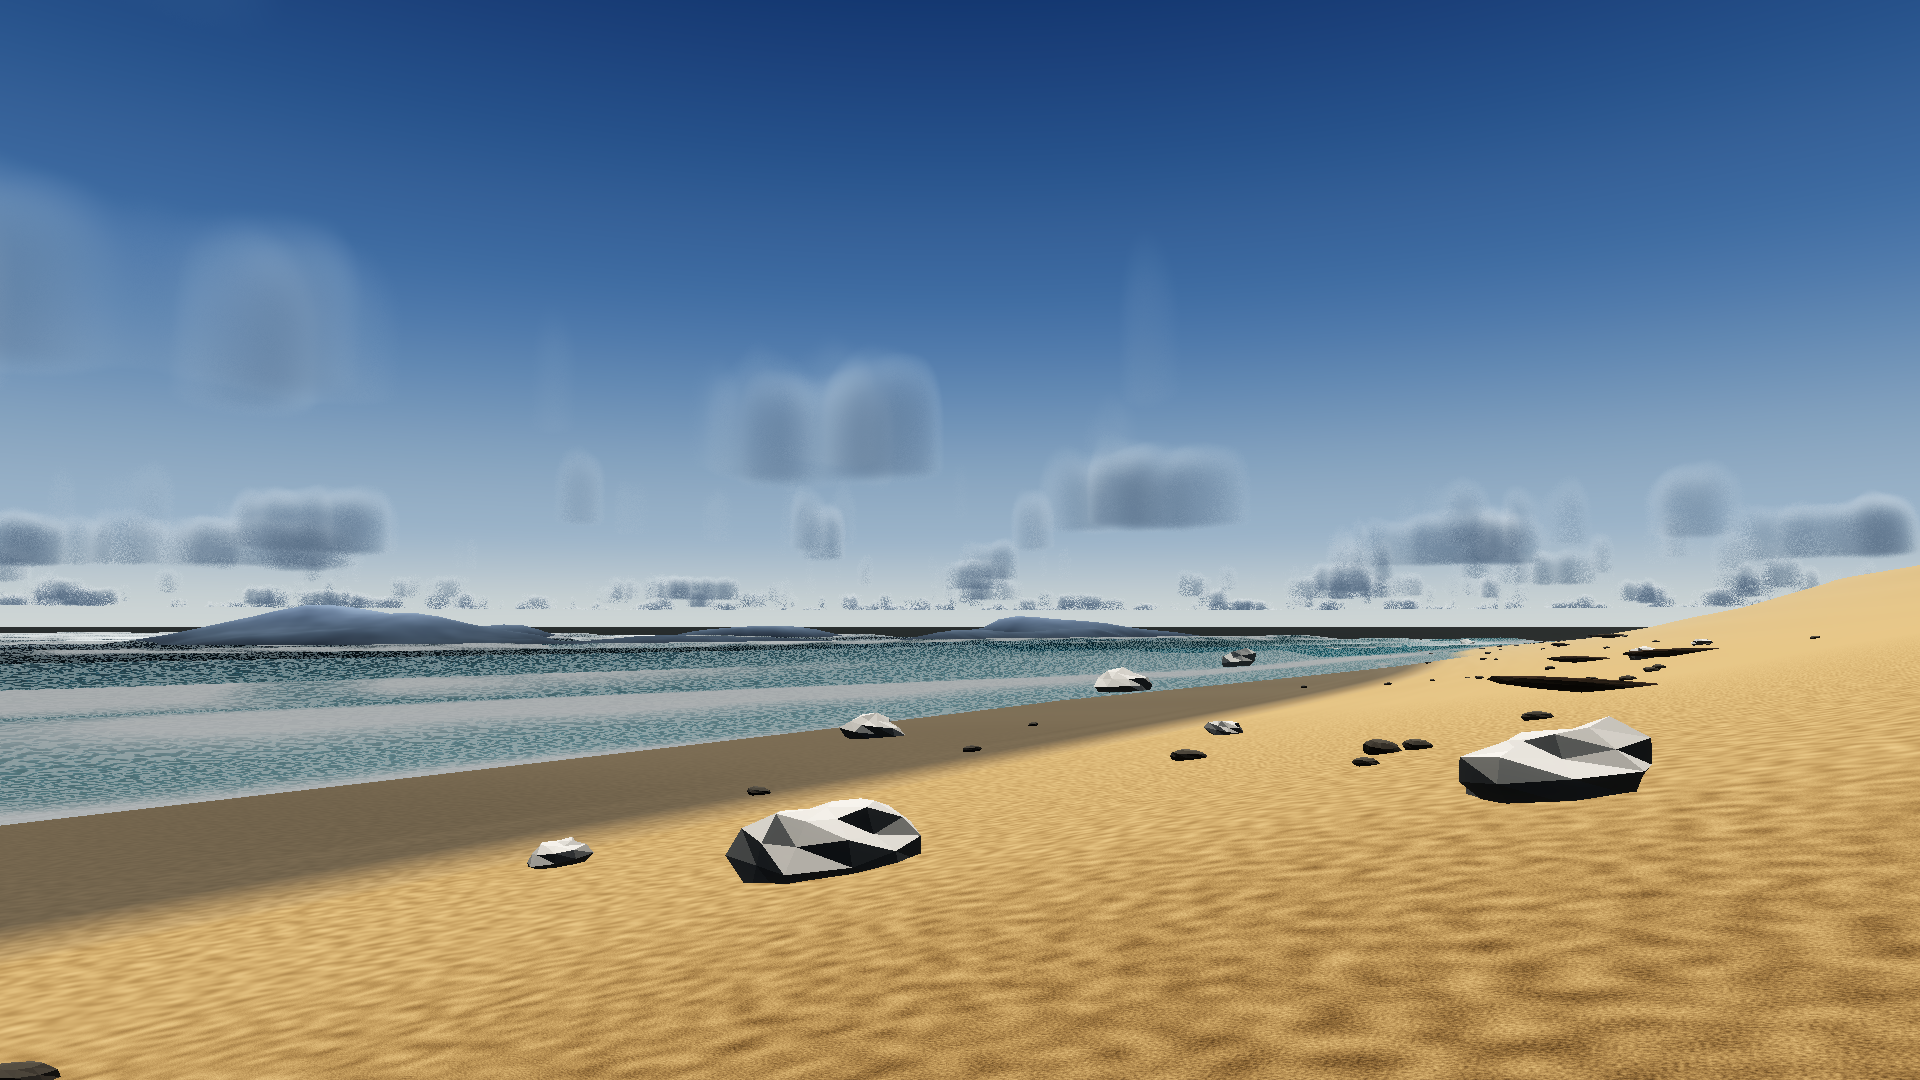
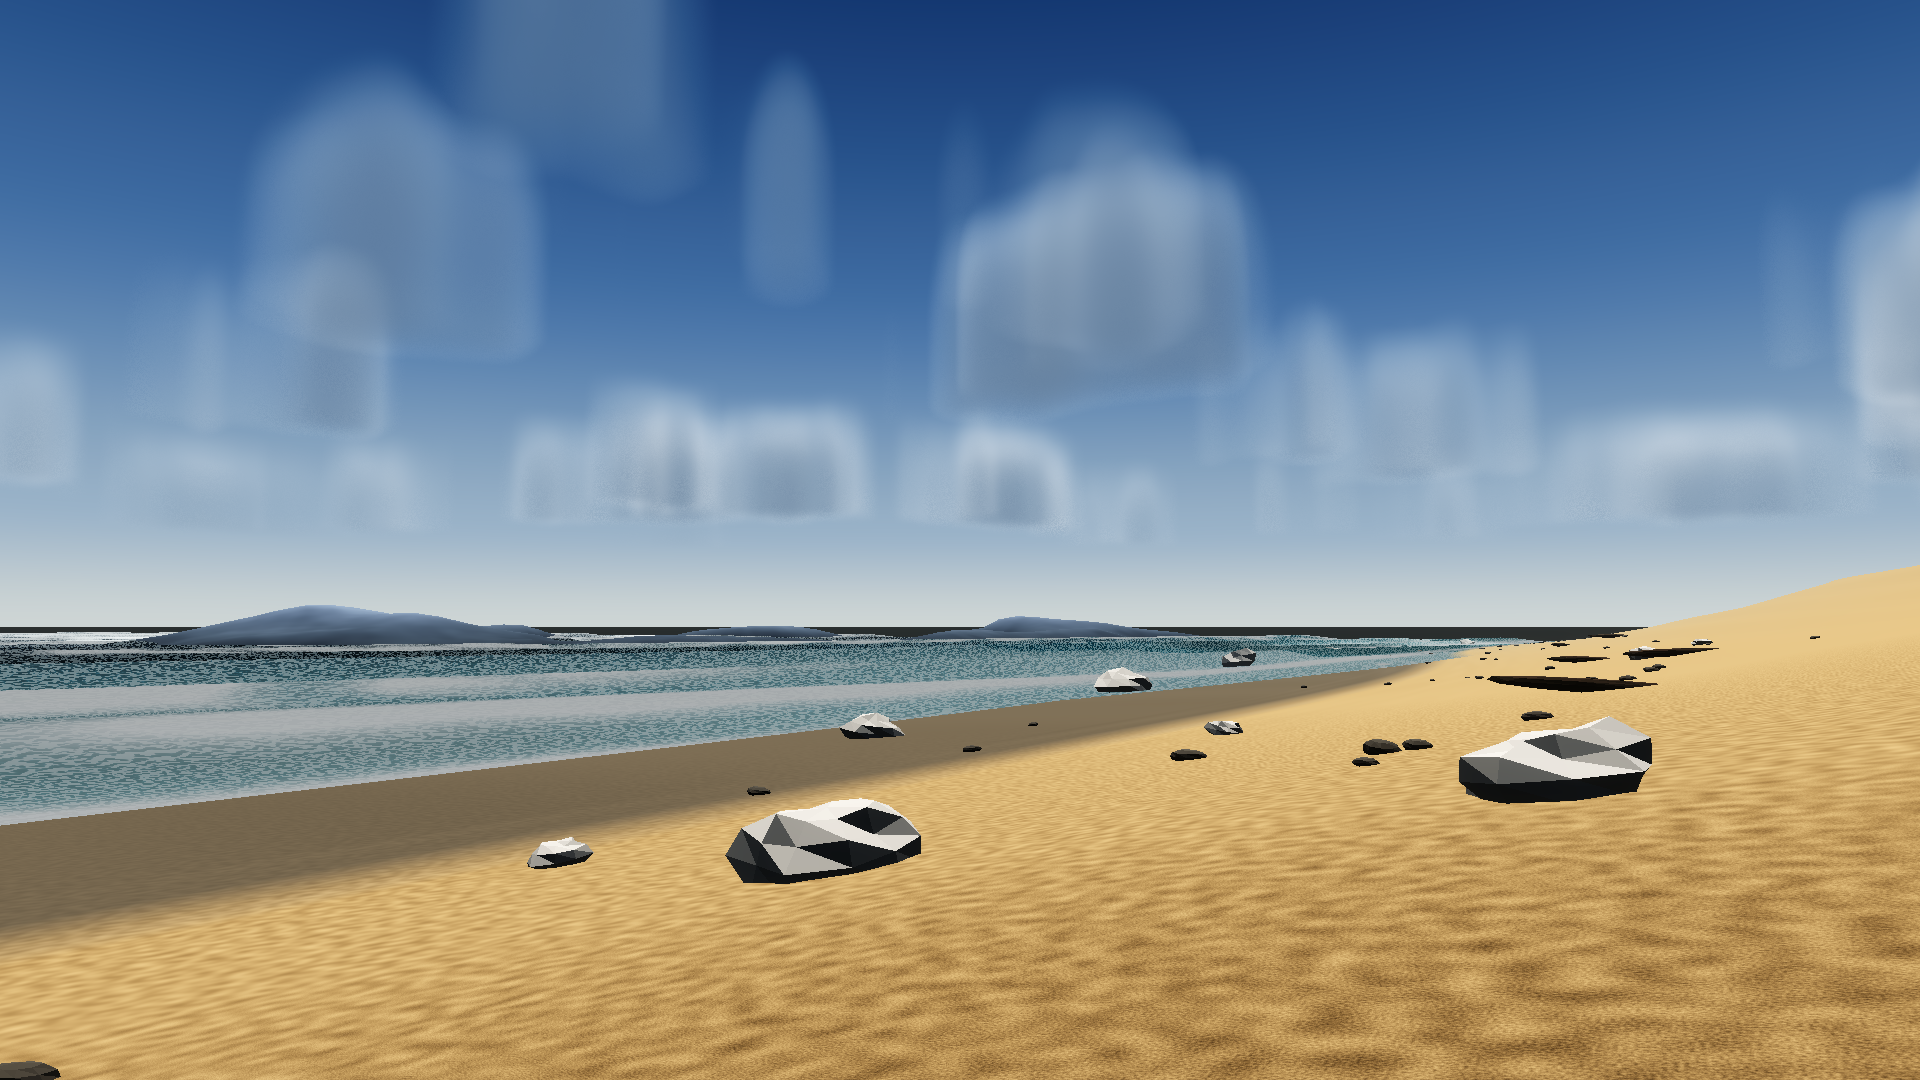
feat(R91-R94): 云从'纸板方块'改成真积云形态. ①诊断: 天空 shader 加真·云遮罩调试(_SkyDebug=4), 一眼看出云轮廓=噪声晶格 ②四步修: 倍频旋转36.87度(两处同步保云影同形) / 静态域扭曲0.38(与慢翻腾0.12分离, 避免R36b果冻) / _CloudScale 从 #define 改成材质参数(材质里旧值0.9一直没生效) / **value noise->Perlin**(决定性: 等值线从圆角方格变椭圆菱形) ③修地平线麻点带: 仰角淡出(0.015~0.085)+距离淡出(6km~14km) ④云边缘椒盐点: 步数32->40(-7

diff --git a/Assets/Editor/R93Setup.cs b/Assets/Editor/R93Setup.cs
@@ -1,0 +1,112 @@
+// R93Setup.cs — R93：云的"观感"三档（光学厚度 / 云底亮暗）
+//
+// 现象：Ocean 的云读成"灰色圆角方块"。形状问题要靠换噪声（工程量大），
+//   但**"太实、太暗"**是观感上更直接的一刀：真实积云是透光的白团，
+//   我们的云 40 步就吃到 78% 不透明度，看起来像纸板剪的。
+//
+// 可逆：90 回当前档，91/92 是两档"更薄更亮"。
+#if UNITY_EDITOR
+using System.IO;
+using UnityEditor;
+using UnityEngine;
+
+namespace WaterProject.EditorTools
+{
+    public static class R93Setup
+    {
+        static void P(string s)
+            => File.AppendAllText(Path.Combine(Application.dataPath, "../Logs/water_probe.txt"), s);
+
+        static void Set(string prop, float v, string tag)
+        {
+            var sky = RenderSettings.skybox;
+            if (sky == null || !sky.HasProperty(prop))
+            {
+                P($"R93/{tag} REFUSED: 没有 {prop}\n");
+                return;
+            }
+            float before = sky.GetFloat(prop);
+            sky.SetFloat(prop, v);
+            EditorUtility.SetDirty(sky);
+            if (Application.isPlaying) P($"R93/{tag} {prop} {before} -> {v}（运行时）\n");
+            else { AssetDatabase.SaveAssetIfDirty(sky); P($"R93/{tag} {prop} {before} -> {v}（已存）\n"); }
+        }
+
+        static void SetColor(string prop, Color c, string tag)
+        {
+            var sky = RenderSettings.skybox;
+            if (sky == null || !sky.HasProperty(prop)) { P($"R93/{tag} REFUSED: 没有 {prop}\n"); return; }
+            Color before = sky.GetColor(prop);
+            sky.SetColor(prop, c);
+            EditorUtility.SetDirty(sky);
+            if (Application.isPlaying) P($"R93/{tag} {prop} {before} -> {c}（运行时）\n");
+            else { AssetDatabase.SaveAssetIfDirty(sky); P($"R93/{tag} {prop} {before} -> {c}（已存）\n"); }
+        }
+
+        [MenuItem("Tools/R93/90 云=当前档(厚/暗)")]
+        public static void Cur()
+        {
+            Set("_CloudOptical", 1.0f, "90");
+            SetColor("_CloudShadow", new Color(0.52f, 0.57f, 0.65f, 1f), "90");
+            Set("_CloudBaseDark", 0.75f, "90");
+        }
+
+        [MenuItem("Tools/R93/91 云=薄一档(0.55)")]
+        public static void Thin()
+        {
+            Set("_CloudOptical", 0.55f, "91");
+            SetColor("_CloudShadow", new Color(0.66f, 0.70f, 0.76f, 1f), "91");
+            Set("_CloudBaseDark", 0.55f, "91");
+        }
+
+        [MenuItem("Tools/R93/92 云=很薄(0.30)")]
+        public static void Thinner()
+        {
+            Set("_CloudOptical", 0.30f, "92");
+            SetColor("_CloudShadow", new Color(0.78f, 0.81f, 0.85f, 1f), "92");
+            Set("_CloudBaseDark", 0.35f, "92");
+        }
+
+
+
+
+        [MenuItem("Tools/R94/96 云光学=0.80")]
+        public static void Opt80() => Set("_CloudOptical", 0.80f, "R94-96");
+
+        [MenuItem("Tools/R94/97 云光学=1.00")]
+        public static void Opt100() => Set("_CloudOptical", 1.00f, "R94-97");
+
+        [MenuItem("Tools/R94/98 云光学=1.40")]
+        public static void Opt140() => Set("_CloudOptical", 1.40f, "R94-98");
+
+        [MenuItem("Tools/R94/92 云量=0.30")]
+        public static void Cover30() => Set("_CloudCover", 0.30f, "R94-92");
+
+        [MenuItem("Tools/R94/93 云量=0.45")]
+        public static void Cover45() => Set("_CloudCover", 0.45f, "R94-93");
+
+        [MenuItem("Tools/R94/94 云量=0.60")]
+        public static void Cover60() => Set("_CloudCover", 0.60f, "R94-94");
+
+        [MenuItem("Tools/R94/95 云量=0.15(当前)")]
+        public static void Cover15() => Set("_CloudCover", 0.15f, "R94-95");
+
+        [MenuItem("Tools/R94/90 云噪声=value(旧)")]
+        public static void NoiseValue() => Set("_CloudNoiseMode", 0f, "R94-90");
+
+        [MenuItem("Tools/R94/91 云噪声=梯度Perlin")]
+        public static void NoisePerlin() => Set("_CloudNoiseMode", 1f, "R94-91");
+
+        [MenuItem("Tools/R93/93 探针(云光学/阴影色/底暗)")]
+        public static void Probe()
+        {
+            var sky = RenderSettings.skybox;
+            if (sky == null) { P("R93 PROBE sky=null\n"); return; }
+            float F(string p) => sky.HasProperty(p) ? sky.GetFloat(p) : -999f;
+            Color C(string p) => sky.HasProperty(p) ? sky.GetColor(p) : Color.magenta;
+            P($"R93 PROBE optical={F("_CloudOptical"):F2} shadow={C("_CloudShadow")} baseDark={F("_CloudBaseDark"):F2} " +
+              $"scale={F("_CloudScale"):F5} steps={F("_CloudSteps"):F0}\n");
+        }
+    }
+}
+#endif

diff --git a/Assets/Editor/R90Setup.cs b/Assets/Editor/R90Setup.cs
@@ -44,6 +44,33 @@ namespace WaterProject.EditorTools
         [MenuItem("Tools/R90/90b 云抖动=白噪(旧)")]
         public static void JitterHash() => SetSky("_CloudJitterIGN", 0f, "90b");
 
+        [MenuItem("Tools/R92/90 云尺度=0.00042(当前)")]
+        public static void Scale42() => SetSky("_CloudScale", 0.00042f, "R92-90");
+
+        [MenuItem("Tools/R92/91 云尺度=0.00075")]
+        public static void Scale75() => SetSky("_CloudScale", 0.00075f, "R92-91");
+
+        [MenuItem("Tools/R92/92 云尺度=0.00110")]
+        public static void Scale110() => SetSky("_CloudScale", 0.00110f, "R92-92");
+
+        [MenuItem("Tools/R92/93 云尺度=0.00150")]
+        public static void Scale150() => SetSky("_CloudScale", 0.00150f, "R92-93");
+
+        [MenuItem("Tools/R91/90 天空调试=正常(0)")]
+        public static void Debug0() => SetSky("_SkyDebug", 0f, "R91-0");
+
+        [MenuItem("Tools/R91/91 天空调试=云遮罩(1)")]
+        public static void Debug1() => SetSky("_SkyDebug", 1f, "R91-1");
+
+        [MenuItem("Tools/R91/92 天空调试=云受光(2)")]
+        public static void Debug2() => SetSky("_SkyDebug", 2f, "R91-2");
+
+        [MenuItem("Tools/R91/93 天空调试=仅渐变(3)")]
+        public static void Debug3() => SetSky("_SkyDebug", 3f, "R91-3");
+
+        [MenuItem("Tools/R91/94 天空调试=云遮罩(4)")]
+        public static void Debug4() => SetSky("_SkyDebug", 4f, "R91-4");
+
         [MenuItem("Tools/R90/91 探针(云抖动/步数/云量)")]
         public static void Probe()
         {

diff --git a/Docs/学习路径与知识库/检测报告/R56_场景画质与采集口径.md b/Docs/学习路径与知识库/检测报告/R56_场景画质与采集口径.md
@@ -524,3 +524,43 @@ Islet 新基线：**129.1 / 52.9 / 119.9 / 近黑 4.49 / 爆白 0.36**。
 可接受。
 
 Ocean 基线不变：132.8 / 42.7 / 115.6 / 近黑 0.64 / 爆白 0.00。
+
+---
+
+## R91–R94：云的"纸板方块" —— 四步拆解到根因
+
+### 现象
+Ocean 天空的云读成**圆角矩形纸板**，边缘有笔直的竖线/横线。
+
+### 诊断：给天空 shader 加"真·云遮罩"调试（`_SkyDebug=4` 输出 1−透射率）
+原调试模式只输出常量，看不到形态。加模式 4 后一眼看出：**云的轮廓就是噪声晶格的格子形状**。
+
+### 四步修（每一步都同会话 A/B，像素差证明真换了帧）
+
+| 步 | 改动 | 结果 |
+| --- | --- | --- |
+| ① | 每个倍频**旋转 36.87°**（Sky_Coast + AtmosphereField 同步，云影仍同形） | 格子不再与屏幕轴对齐 |
+| ② | 加**静态域扭曲** 0.38（与"慢翻腾"0.12 分离，避免 R36b 的果冻） | 直边揉成不规则团块 |
+| ③ | `_CloudScale` 从 `#define` 改成**材质参数**（材质里的旧值 0.9 一直没用上） | 可现场扫参 |
+| ④ | **value noise → 梯度噪声 Perlin**（`_CloudNoiseMode` 可逆） | **决定性一步**：等值线从"圆角方格"变成椭圆/菱形，云不再是纸板 |
+
+### 顺带修掉两个伪影
+- **地平线麻点带**：掠射角下 t0 对像素极敏感、步进相位去相关 ⇒ 远处压成麻点。按**仰角** `smoothstep(0.015,0.085)` 淡出 + 按**距离** 6km→14km 淡出（真实里远处云也被雾吃掉）。
+- **云边缘椒盐点**（R90）：步数 32→40，高频噪点 −71%。
+
+### 最终参数（Ocean，已存材质）
+| 参数 | 值 |
+| --- | --- |
+| `_CloudNoiseMode` | 1（Perlin） |
+| `_CloudCover` | 0.30 |
+| `_CloudOptical` | 1.40 |
+| `_CloudSteps` | 40 |
+| `_CloudBaseDark` | 0.55 |
+
+Ocean 现状：**138.5 / 42.3 / 108.5 / 近黑 0.63 / 爆白 0.00**
+（对比参考 123.3/51.2/124.3：亮度 +12%、对比 −17%、饱和 −13% —— 云量上来后画面整体偏亮偏灰，
+这是"有云"与"蓝天饱和"的天然权衡，最终取"看起来是晴间多云"这一档。）
+
+### 还没解决的
+云的**轮廓仍偏软/偏大**（受 4 倍频、`_CloudScale 0.00042` 限制），要更真实的积云需要 3D 噪声
+（高度方向也变化）+ 更多倍频 —— 那是重写级别的工程量，本轮不做。
